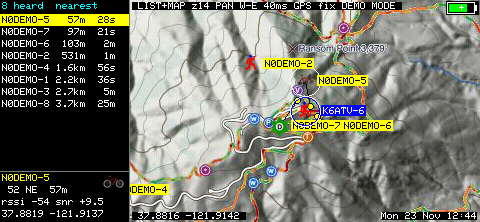
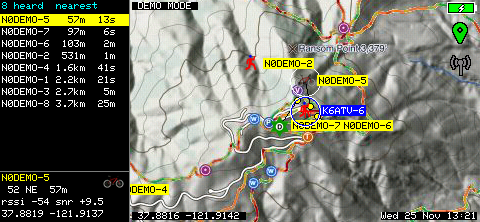
Power notes (SD on/off comparison, open power question) and new screenshots

diff --git a/docs/low-power.md b/docs/low-power.md
@@ -12,7 +12,7 @@ processor, the GPS or the radio. It was:
 | What | Saves about | How |
 |---|---|---|
 | Processor in **light sleep** between events | 22 mA | stop the CPU; wake on radio, key, knob, the motion sensor or a 1 s timer (not on GPS data, see below) |
-| **SD card** unpowered *and its chip-select floated* | 14 mA | cutting the rail alone is not enough, see "The leaks" |
+| **SD card** chip-select floated while its supply is off | 14 mA *against the leaking state* | not a saving against a card left powered: see "Open: the later builds draw more" |
 | **Display panel** put to sleep (not just the backlight) | 13 mA | panel sleep command |
 | **GPS** unpowered *and its serial pins floated* | 28 mA | measured, but the firmware uses GPS backup mode instead (below) |
 | Radio in standby instead of receiving | 6 mA | not used: receiving is the job |
@@ -22,9 +22,33 @@ measured with the radio in standby. With the radio receiving that is about 12 mA
 
 What the firmware does today while the screen is off: light sleep, SD rail off with the chip-select floated, panel sleep, and the GPS
 in backup mode, waking for a fix on an adaptive interval (a minute at first, then 5 minutes while the pager sits still).
-**Best measured: 14 mA with the screen off, on battery**, with the pager still (about 4 days on the 1500 mAh cell, against about 23 hours
+**Best measured: 14 mA with the screen off, on battery** (see "Open: the later builds draw more" near the end), with the pager still (about 4 days on the 1500 mAh cell, against about 23 hours
 before; the first build without adaptive GPS read 24 mA). Later builds search longer for the GPS and have read 15 to 26 mA in short runs under
 different conditions. They have not been measured under the same conditions, so do not compare those figures. Details at the end of this file.
+
+**Where we are now:** from about **65 mA** before the work to about **20 to 21 mA** in the latest 20 minute runs with the pager still, about two
+thirds less (approximate: the conditions were not identical). **We are still looking into ways to reduce power**, starting with why the later
+builds draw more than the 14 mA run.
+
+### Estimated battery life (1500 mAh)
+
+Estimates for planning, **not measured battery life**. Each day is 24 hours with auto-beacon on; outside the 8 hours named, the pager is still
+with the screen off.
+
+| Use | Current assumed in those 8 hours | Days at full rated capacity | Days if 85% of it is usable |
+|---|---|---|---|
+| Standing still, screen off all day | 21 mA (measured in 20 minute runs) | about 3.0 | about 2.5 |
+| Moving 8 hours a day, screen off | 28 mA (estimate) | about 2.7 | about 2.3 |
+| Standing still, screen on 8 hours a day | 108 mA (measured on an earlier build) | about 1.2 | about 1.1 |
+| Moving 8 hours a day, screen on for those hours | 112 mA (estimate) | about 1.2 | about 1.0 |
+
+For comparison, 65 mA with the screen off all day was about 23 hours, at full rated capacity.
+
+How the moving figures were estimated: the "moving, screen off" case is driving, with a beacon about every 68 s. It takes about 19 mA outside
+GPS searches, adds about 5 mA for searches (their lengths in a drive log: about 13% of the time, at about 35 mA extra) and about 5 mA for
+transmitting (2.6 s each time, assumed about 120 mA extra, not measured). Walking beacons less often. With the screen on the GPS runs all the
+time and 4 mA is added for the beacons. The screen-on current depends on the brightness, and has not been measured on the current build. Cold,
+battery age, weak GPS reception, messages and busy use will all change these figures.
 
 ## How to save energy
 
@@ -41,8 +65,8 @@ What follows is measured where a number is given. Where there is none, the advic
 * **Beacon less often.** Each beacon is a transmission and wakes the GPS. The moving and standing-still intervals and the distance
   that counts as "moved" are on the setup page. Longer intervals cost less. (Not measured separately.)
 * **Lower the transmit power** if your contacts hear you well. The setup page has a power setting. (Not measured separately.)
-* **Switch auto-beacon off** if you only want to listen: Backspace menu, "Auto-beacon". The pager still receives and the GPS still wakes
-  once a minute while the screen is off.
+* **Switch auto-beacon off** if you only want to listen: Backspace menu, "Auto-beacon". The pager still receives, and the GPS still wakes
+  on its usual schedule while the screen is off.
 * **Power off** (Backspace menu) when you will not use it for days. The pager refuses to power off while USB is connected.
 * **Leave the SD card in.** Reading tiles is cheap; the card is powered down by the firmware while the screen is off.
 
@@ -81,6 +105,9 @@ only means something with USB unplugged.
   short steps.
 * **Remaining capacity (0x10)** counts whole mAh. Over 30 minutes at 16 mA that is 8 mAh, an error of about +/-12%. Longer is better.
 * The gauge wanders by roughly +/-3 mA between identical runs. Everything below should be read with that in mind.
+* We found no current offset or overall accuracy figure in mA in the BQ27220 data sheet's specification tables, so the absolute values at
+  around 20 mA are unverified. Comparing runs on the same pager is likely to be more reliable than any single value. The battery is inside the
+  case with no outside connection, so checking against an external power analyser means opening the pager.
 * To know whether light sleep was really sleeping, the experiment code also logged the share of each step spent inside
   `esp_light_sleep_start()`. A reading is only meaningful if that is near 100%. Many early "no saving" results turned out to be the
   processor being woken constantly (GPS streaming, a floating wake pin).
@@ -136,7 +163,7 @@ diodes and partly powers it.** The chip then draws current from the pin instead 
   so beacons failed with the screen off. CS held high all the time works but leaks (above). The firmware drives CS high only while it talks to the
   radio and waits 2 ms before each exchange; without that wait it still failed (in `PX`: 0, 20 and 100 us failed; 500 us, 2 ms and 10 ms
   passed). Confirmed on battery on one pager: before the fix every screen-off beacon failed; with it, the scheduled beacons went out and
-  stations were received with the screen off. How much current this saves compared with leaving the card powered is still to be measured.
+  stations were received with the screen off. A first comparison with the card left powered showed no clear difference in current (see "Open: the later builds draw more").
 * **GPS.** With `GPS_EN` low and the ESP32 still driving the serial lines, the GPS leak was about 28 mA. Floating GPIO 4, 12 and 13
   (permanently, as plain inputs) took the configuration from 34 mA to 6 mA.
 * **Radio.** Cutting `LORA_EN` made things *worse* by 18 mA (65 mA vs 47 mA), for the same reason: the SPI and control lines kept
@@ -182,8 +209,9 @@ Measured, no change beyond noise:
 * The M10 key IDs and message layouts in `src/ubx.h` are from the u-blox M10 SPG 5.10 interface description (UBX-21035062) and are
   unit-tested in `test/host/test_ubx.cpp`.
 * **The wake interval is adaptive and a setting** (phone setup, "Battery, screen off"). While the pager is moving it wakes the GPS every
-  `gpsmv` seconds (default 60). Once two wake-ups in a row find it within 40 m of the previous fix, or find no fix at all (probably indoors and
-  not going anywhere), it backs off to `gpsst` minutes (default 5). A fix that shows movement brings the short interval back at once. The logic is
+  `gpsmv` seconds (default 60). Once two wake-ups in a row find it within 40 m of the previous fix (150 m while the motion sensor is running
+  and has reported nothing), it backs off to `gpsst` minutes (default 5). A fix that shows movement brings the short interval back at once.
+  Searches that find no fix have their own pauses (above). The logic is
   `src/gpsduty.h`, tested in `test/host/test_gpsduty.cpp`. "GPS sleeps while the screen is off" can be switched off to keep the GPS running.
 * Beacons use the most recent fix, so a beacon sent while the screen is off can be a little old. Without motion wake, a move that starts
   during the long interval is noticed at the next wake (up to `gpsst` minutes; on a drive this left an 8 minute gap in the beacons).
@@ -214,7 +242,7 @@ packet counts before relying on it. Only with the screen off; with the screen on
   edge type. Meshtastic's `sleep.cpp` handles the same trap (it masks the radio interrupt while the level wake is armed).
 * **Do not wake on the GPS serial line while the GPS is talking.** An overnight soak test of the adaptive-GPS build restarted 26 times, all
   interrupt-watchdog resets inside `esp_light_sleep_start()`, soon after a GPS wake-up. The GPS line's level wake fired in a storm. The firmware
-  now has no wake on that line and does not light-sleep while the GPS is awake (its 6 to 30 s window). The restart list in `PW` (reason and
+  now has no wake on that line and does not light-sleep while the GPS is awake (at least 6 s, and up to 5 minutes while it searches). The restart list in `PW` (reason and
   stage of each restart, kept in RTC memory) is what found this.
 * **Do not sleep with a packet already latched.** If DIO1 is high before sleeping, skip the sleep and service the radio.
 * **Never sleep with USB attached.** The serial port disappears. The firmware reads the charger's VBUS status and stays awake.
@@ -287,7 +315,24 @@ The experiment code that produced the tables above (a self-running test that ste
 logged the average current and the share of time asleep, and a 30-minute deep-sleep capacity test) is in the git history of the
 `power-saving` branch.
 
-## Result of the shipped build
+## Open: the later builds draw more, and it is not yet explained
+
+Two 20 minute runs on one build, on battery, the pager still in the same place, motion wake on, 3 beacons each:
+
+| Screen off | SD card power off (with the chip-select fix) | SD card left powered (`PS0`) |
+|---|---|---|
+| Average (about 600 gauge readings) | 21 mA | 21 mA |
+| Share of the time searching for GPS | 6% | 4% |
+
+Allowing for the searches (estimated at about 35 mA extra: the receiver's 12 to 15 mA from the MIA-M10Q data sheet, and about 22 mA because
+the processor does not light-sleep meanwhile; an estimate, not a measurement) leaves about 19 and 20 mA. So **these runs do not show that
+switching the card off saves anything**: the fix is needed to keep the radio working with the card off, but a saving is not established. Other
+runs that day gave about 16 to 21 mA after the same allowance, against about 11 mA for the 14 mA run below. The cause of that difference is not
+known. The 14 mA build also had the radio and GPS wake faults described above, so it is not certain that everything in it was working. Short
+runs on the fuel gauge cannot resolve differences of a few mA with confidence; the next steps are to repeat the old build in the same place and
+to measure with an external power analyser.
+
+## Result of the earlier build (2026-11-24)
 
 **14 mA** with the screen off, USB unplugged: the average of 2,524 gauge readings (one every 2 s, readings taken with USB present are
 skipped), minimum -68 mA, maximum -10 mA, over about 1.4 hours with the pager still, the GPS in backup mode on a 5-minute interval (30 s
@@ -295,7 +340,7 @@ awake per wake), the radio receiving continuously, and nothing else changed. Rea
 GPS waking every minute, read 24 mA.
 
 Compared with 65 mA before the work, that is a reduction of about 78%. The pieces add up to about 12 mA in the best case (radio
-receiving, GPS off), so only about 2 mA is left to explain, most likely the GPS wakes. Estimates for what is still to come (not
+receiving, GPS off), so only about 2 mA was left to explain, thought at the time to be the GPS wakes. Estimates made then for later work (never
 measured): receiving in short bursts at SF11/SF12 about 1 to 2 mA, waking the GPS on motion instead of a timer about 1.5 to 2 mA, both
 together about 10 to 11.5 mA. Still to try:
 * measuring the adaptive build while moving, and outdoors,
